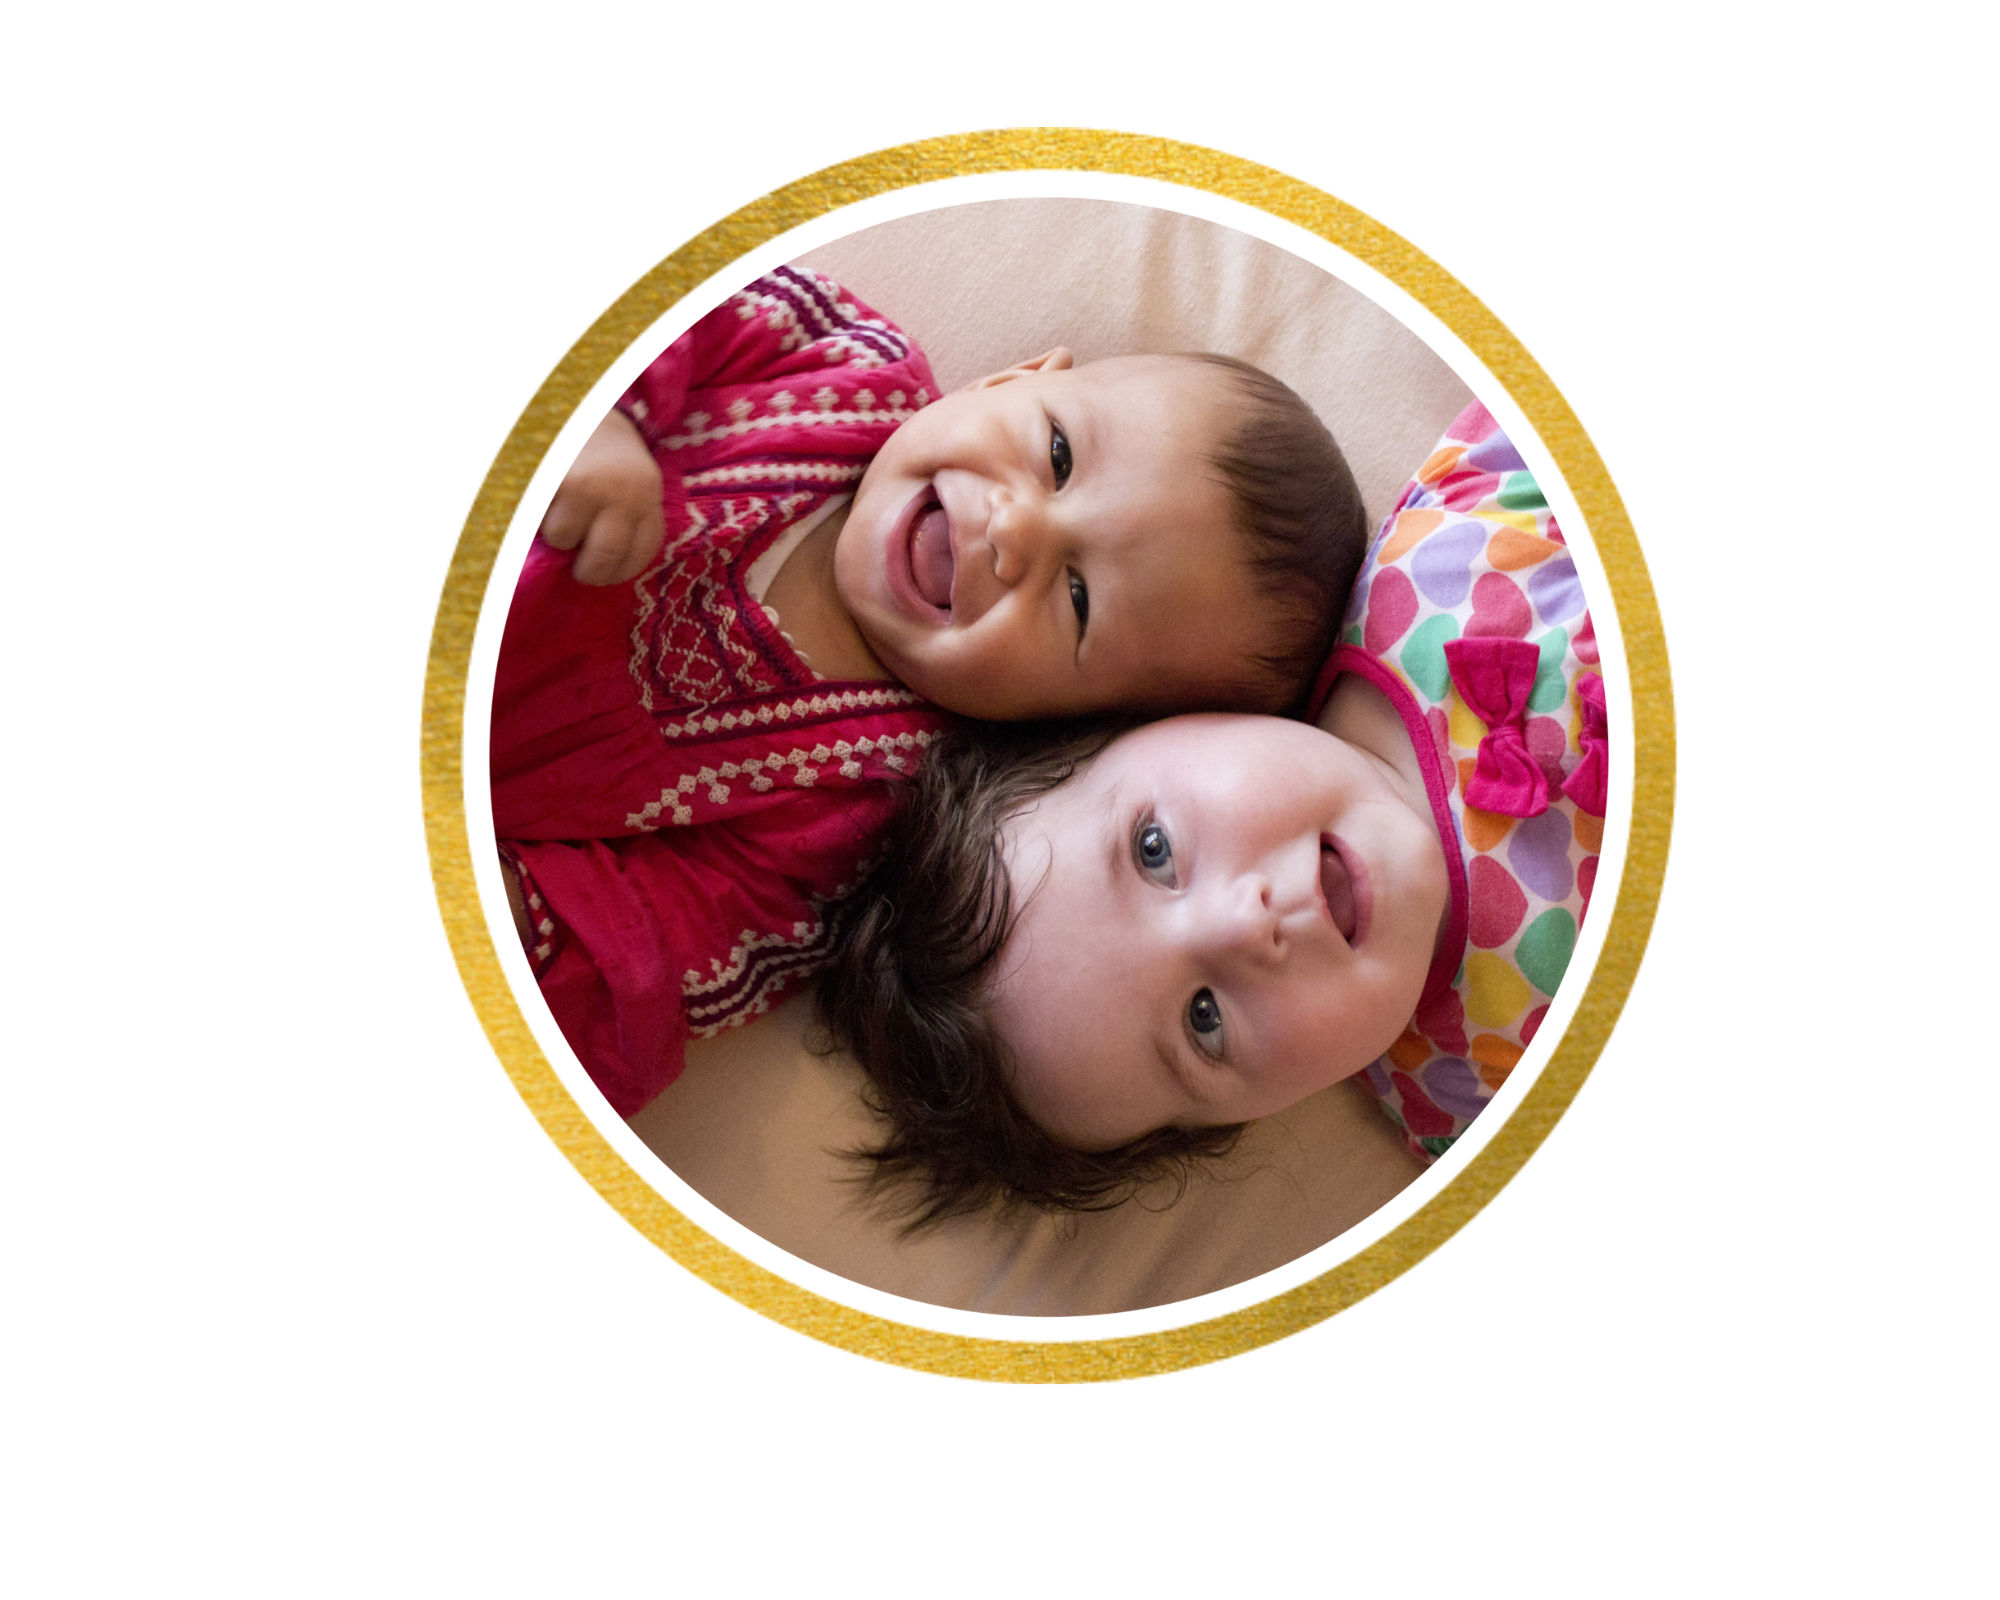
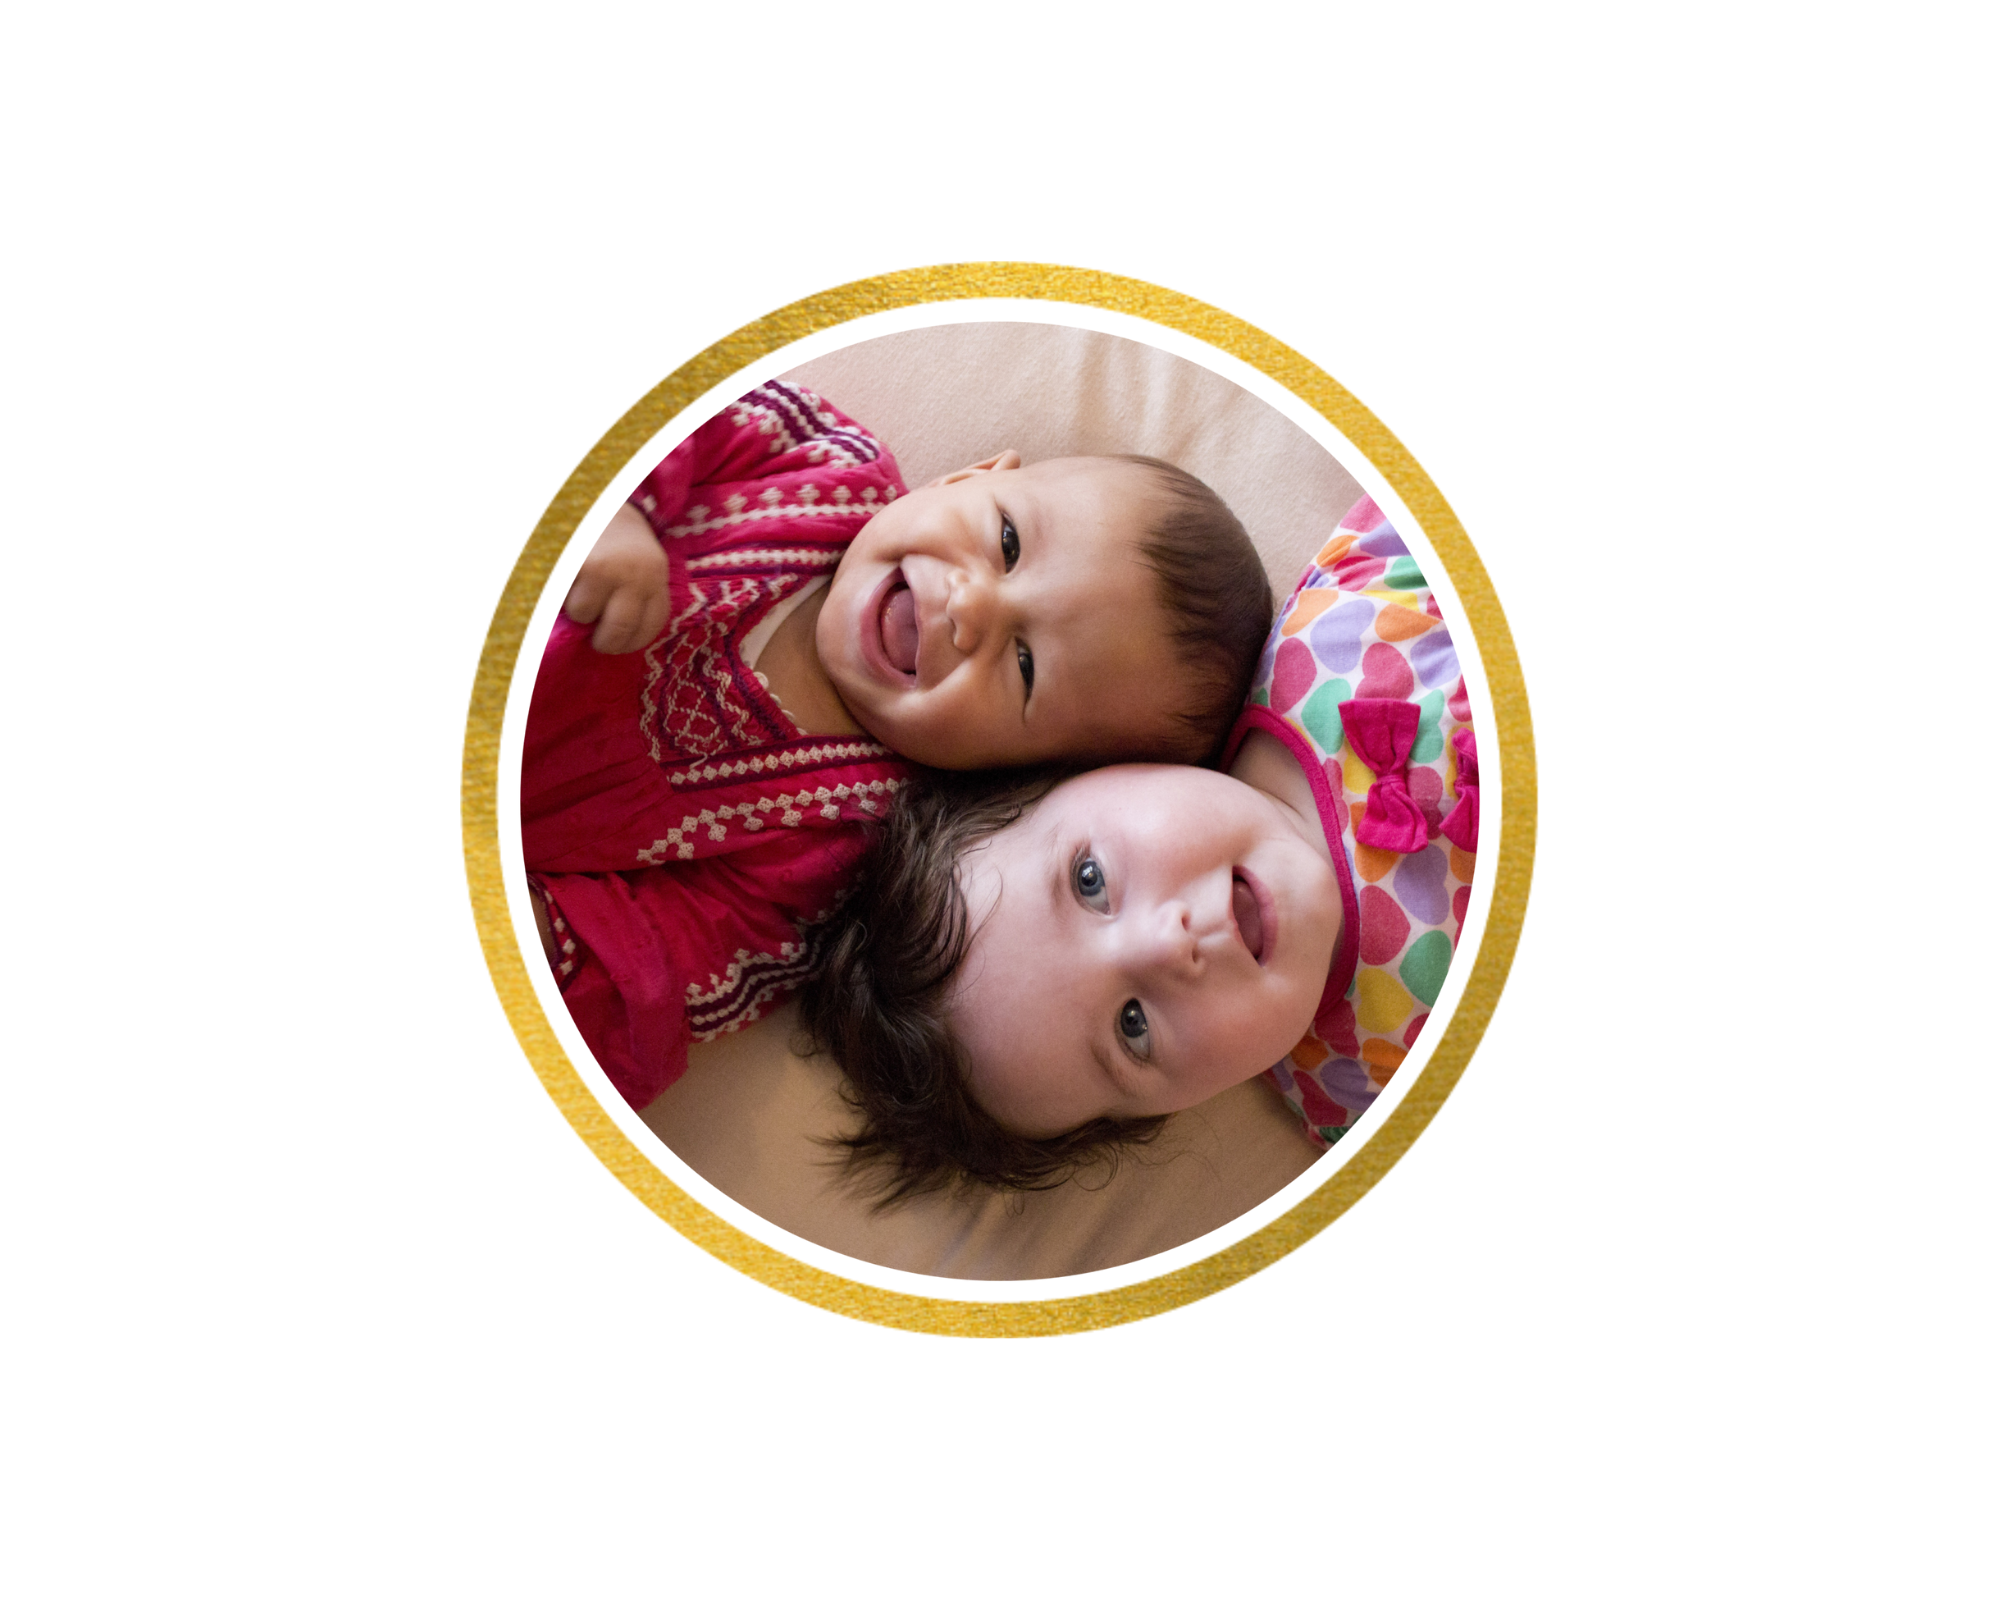
ci:done fix hub-question

Changed region(s): [[0.186, 0.0625, 0.837, 0.875]]

diff --git a/public/css/hub-category-question.css b/public/css/hub-category-question.css
@@ -131,10 +131,7 @@
     .category-container{
         background-image: url("../asset/img/hub-question.png");
         background-repeat: no-repeat;
-        background-size: 42rem;
         background-position: center;
-        background-position-x: 18rem;
-
-
+        background-size: 55rem;
     }
 }
